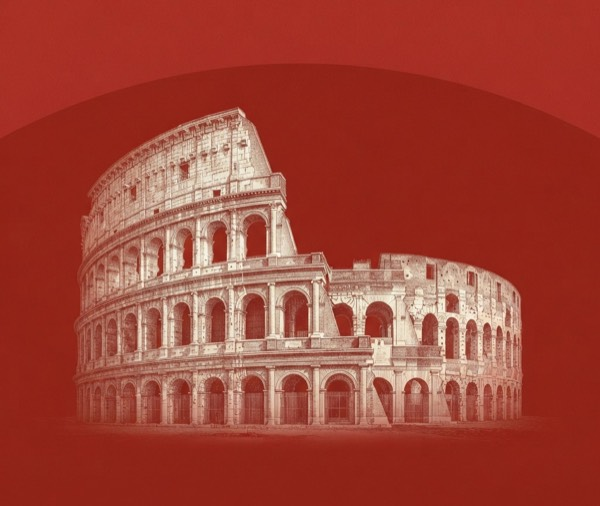
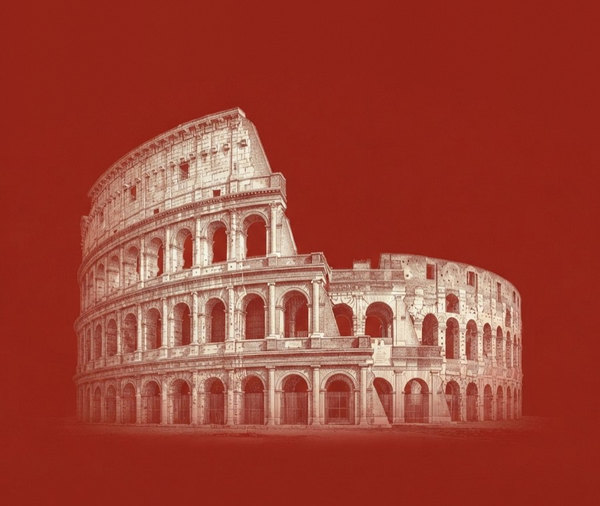
feat(finish): fixed frame, arcade footer, clean cover arch, no repeated badges
The bottom bar was a floating capsule sitting on each page's frame edge and
cutting rows mid-line; the cover image carried a second arch under the CSS arch.

- One fixed gold frame per screen (.pager__frame); pages scroll inside it, top
  edge fades rows out, hidden while the cover portal runs.
- Footer rebuilt: full-width parchment fade, an arcade of arch pips on a
  baseline (red = here, tinted = seen), page name and count. Footer ignores
  pointer events except the pips; scroll-padding keeps focused rows clear.
- Cover arch image repainted so the baked-in arch is gone.
- Rows leave off a badge that only repeats the section title (Unli Rice page).
- Reduced motion reaches the pips; docs and learnings synced.

diff --git a/src/styles/app.css b/src/styles/app.css
@@ -105,7 +105,7 @@ button {
 /* ---------- shell: phone column, centred; the printed frame continues around it on desktop ---------- */
 .shell {
   --col-w: min(var(--column-max), 100vw);
-  --indicator-space: 118px;
+  --indicator-space: 118px; /* the footer is 38 + 34 + 2 + 14.4 + 30 = 118.4px tall: the page ends above its fade */
   position: relative;
   display: flex;
   justify-content: center;
@@ -152,6 +152,7 @@ button {
   overflow-x: hidden;
   overflow-y: auto;
   overscroll-behavior-y: contain;
+  scroll-padding-block: 30px 118px;
   scroll-snap-align: start;
   scroll-snap-stop: always;
   scrollbar-width: none;
@@ -170,20 +171,37 @@ button {
   pointer-events: none;
 }
 
-/* ---------- indicator ---------- */
+/* ---------- the printed frame: fixed, the pages slide inside it ---------- */
+.pager .pager__frame {
+  position: absolute;
+  inset: 0;
+  z-index: var(--z-frame);
+  pointer-events: none;
+  /* rows that scroll up dissolve under the frame's top edge instead of running into its hairlines */
+  background: linear-gradient(to bottom, var(--lr-parchment) 0, var(--lr-parchment) 20px, rgb(250 245 237 / 0) 30px);
+  transition: opacity var(--dur-base) linear;
+}
+/* the cover portal (track locked): the red arch floods the whole screen, frame included, as it did when each page had its own frame */
+.pager__track[data-locked] ~ .pager__frame {
+  opacity: 0;
+  transition-duration: var(--dur-quick);
+}
+
+/* ---------- indicator: a footer the page runs out into. An arcade (one arch per page) on a baseline, then name and count ---------- */
 .indicator {
+  --pip-w: 14px;
+  --pip-h: 19px;
   position: absolute;
   z-index: var(--z-indicator);
-  left: 10px;
-  right: 10px;
-  bottom: max(10px, env(safe-area-inset-bottom));
-  padding: 2px 10px 11px;
-  border: 1px solid rgb(146 117 79 / 0.38);
-  border-radius: 22px;
-  background: rgb(250 245 237 / 0.94);
-  -webkit-backdrop-filter: blur(10px) saturate(130%);
-  backdrop-filter: blur(10px) saturate(130%);
-  box-shadow: 0 16px 30px -18px rgb(60 30 10 / 0.55), inset 0 1px 0 rgb(255 255 255 / 0.7);
+  left: 0;
+  right: 0;
+  bottom: 0;
+  /* the footer is a full-width strip: it must not swallow taps, wheel or swipes meant for the page under its fade. Only the pips take input. */
+  pointer-events: none;
+  /* the top 38px are the fade: rows dissolve into the parchment before they reach the arcade.
+     The label row gets extra inline room (34px in) so it clears the frame's cut corners. */
+  padding: 38px 24px calc(30px + env(safe-area-inset-bottom));
+  background: linear-gradient(to bottom, rgb(250 245 237 / 0) 0, var(--lr-parchment) 34px);
   transition:
     opacity var(--dur-quick) linear,
     transform var(--dur-base) var(--ease-roman),
@@ -201,15 +219,27 @@ button {
 }
 
 .indicator__pips {
+  position: relative;
   display: flex;
   justify-content: center;
   margin: 0;
   padding: 0;
   list-style: none;
 }
+/* the baseline the arches stand on */
+.indicator__pips::after {
+  content: '';
+  position: absolute;
+  left: 0;
+  right: 0;
+  bottom: 7px;
+  height: 1px;
+  background: rgb(146 117 79 / 0.75);
+  pointer-events: none;
+}
 .indicator__pips li {
   /* 24px hit area per pip (WCAG 2.2 target size). Only when 14 x 24 cannot fit does a slot get narrower, and then
-     the slots touch: no gap is ever left between two taps. The drawn pip stays 8 x 12 (22 wide when active). */
+     the slots touch: no gap is ever left between two taps. */
   flex: 1 1 24px;
   min-width: 0;
   max-width: 24px;
@@ -219,20 +249,37 @@ button {
   align-items: flex-end;
   justify-content: center;
   width: 100%;
-  height: 30px;
-  padding: 0 0 7px;
+  height: 34px;
+  padding: 0 0 8px;
   border: 0;
   border-radius: 8px;
   background: none;
+  pointer-events: auto;
 }
 .indicator__pip:focus-visible {
   box-shadow: var(--sh-focus);
 }
-.lr-pip.is-active {
-  width: 22px;
+/* an arch standing on the baseline: open at the bottom, the baseline closes it */
+.indicator .lr-pip {
+  box-sizing: border-box;
+  width: var(--pip-w);
+  height: var(--pip-h);
+  border-width: 1.25px 1.25px 0;
+  border-radius: calc(var(--pip-w) / 2) calc(var(--pip-w) / 2) 0 0 / 7px 7px 0 0;
+  transition:
+    height var(--dur-base) var(--ease-roman),
+    background-color var(--dur-quick) linear,
+    border-color var(--dur-quick) linear;
+}
+.indicator .lr-pip.is-seen {
+  background: rgb(146 117 79 / 0.24);
+}
+.indicator .lr-pip.is-active {
+  width: var(--pip-w);
+  height: calc(var(--pip-h) + 4px);
   border-color: var(--lr-red);
   background: var(--lr-red);
-  border-radius: 50% 50% 1px 1px / 7px 7px 1px 1px;
+  border-radius: calc(var(--pip-w) / 2) calc(var(--pip-w) / 2) 0 0 / 7px 7px 0 0;
 }
 
 .indicator__meta {
@@ -240,16 +287,18 @@ button {
   align-items: baseline;
   justify-content: space-between;
   gap: var(--sp-3);
-  padding: 0 4px;
+  margin-top: 2px;
+  padding: 0 10px;
 }
 .indicator__label {
   min-width: 0;
   overflow: hidden;
   font: 600 var(--fs-meta) / 1.2 var(--font-display);
-  letter-spacing: 0.14em;
+  letter-spacing: 0.16em;
   text-transform: uppercase;
   white-space: nowrap;
   text-overflow: ellipsis;
+  color: var(--lr-ink);
   animation: label-in var(--dur-instant) linear;
 }
 .indicator__count {
@@ -269,12 +318,15 @@ button {
   }
 }
 
-/* 14 x 24px needs 336px between the bar's padding: below 390px tighten the bar so it still fits down to 359px */
+/* 14 x 24px needs 336px between the footer's padding, and the arcade has to stay inside the frame's inner hairline (16.5px from the edge):
+   that holds from 376px up. Below 390px the footer's side padding drops to 20px; the slots then shrink (22.9px wide at 360px, still 34px tall,
+   touching, so no dead gap between two taps) rather than run over the frame. */
 @media (max-width: 389px) {
   .indicator {
-    left: 6px;
-    right: 6px;
-    padding-inline: 4px;
+    padding-inline: 20px;
+  }
+  .indicator__meta {
+    padding-inline: 14px;
   }
 }
 
@@ -351,6 +403,7 @@ button {
 /* ---------- a page ---------- */
 .page__inner {
   --indent: 34px;
+  position: relative;
   min-height: 100%;
   padding: calc(env(safe-area-inset-top) + 30px) 24px calc(var(--indicator-space) + env(safe-area-inset-bottom));
 }
@@ -779,8 +832,8 @@ button {
 }
 .closing__sprig {
   position: absolute;
-  top: calc(env(safe-area-inset-top) + 26px);
-  left: 28px;
+  top: calc(env(safe-area-inset-top) + 36px);
+  left: 30px;
   width: 70px;
   height: 35px;
   color: var(--lr-gold);
@@ -901,6 +954,9 @@ button {
   }
   .indicator__label {
     animation: none;
+  }
+  .indicator .lr-pip {
+    transition-duration: 1ms;
   }
   .row__btn:active,
   .note--jump:active,

diff --git a/src/components/list/ItemRow.tsx b/src/components/list/ItemRow.tsx
@@ -8,6 +8,8 @@ interface ItemRowProps {
   item: Item;
   selected: boolean;
   onSelect(id: string): void;
+  /** Badge text to leave off (compared ignoring case): it only repeats the section title. */
+  hideBadge?: string;
 }
 
 /**
@@ -16,11 +18,12 @@ interface ItemRowProps {
  * The whole row is one <button aria-pressed>: tap selects the dish on the stage.
  * A null price (the two Crispy Pata rows) renders no leader and no price element at all.
  */
-export const ItemRow = memo(function ItemRow({ item, selected, onSelect }: ItemRowProps) {
+export const ItemRow = memo(function ItemRow({ item, selected, onSelect, hideBadge }: ItemRowProps) {
   const reduced = useReducedMotion();
   const { ref, inView, order } = useInView<HTMLLIElement>();
   const variants = item.variants ?? [];
   const priced = item.price !== null || variants.length > 0;
+  const badges = hideBadge === undefined ? item.badges : item.badges.filter((b) => b.toLowerCase() !== hideBadge.toLowerCase());
 
   return (
     <li
@@ -44,9 +47,9 @@ export const ItemRow = memo(function ItemRow({ item, selected, onSelect }: ItemR
             <PricePill value={item.price} />
           ) : null}
         </span>
-        {item.badges.length > 0 || item.description ? (
+        {badges.length > 0 || item.description ? (
           <span className="row__desc">
-            {item.badges.map((badge) => (
+            {badges.map((badge) => (
               <span key={badge} className="badge">
                 {badge}
               </span>

diff --git a/src/components/list/ItemList.tsx b/src/components/list/ItemList.tsx
@@ -6,6 +6,8 @@ interface ItemListProps {
   items: readonly Item[];
   selectedId: string;
   onSelect(id: string): void;
+  /** A badge that only repeats the section's own title (17 "Unli rice" pills under "Unli Rice") is left off the rows. */
+  hideBadge?: string;
 }
 
 interface Group {
@@ -33,7 +35,7 @@ function group(items: readonly Item[]): Group[] {
   return groups;
 }
 
-export function ItemList({ items, selectedId, onSelect }: ItemListProps) {
+export function ItemList({ items, selectedId, onSelect, hideBadge }: ItemListProps) {
   const groups = useMemo(() => group(items), [items]);
 
   return (
@@ -55,7 +57,7 @@ export function ItemList({ items, selectedId, onSelect }: ItemListProps) {
           ) : null}
           <ul className="rows">
             {g.items.map((item) => (
-              <ItemRow key={item.id} item={item} selected={item.id === selectedId} onSelect={onSelect} />
+              <ItemRow key={item.id} item={item} selected={item.id === selectedId} onSelect={onSelect} hideBadge={hideBadge} />
             ))}
           </ul>
         </div>

diff --git a/src/components/pager/Indicator.tsx b/src/components/pager/Indicator.tsx
@@ -10,7 +10,7 @@ interface IndicatorProps {
 
 const two = (n: number) => String(n).padStart(2, '0');
 
-/** Fixed bottom bar: one arch pip per page, the page name, and "08 / 14". Hidden on the cover. */
+/** Fixed footer: an arcade with one arch per page (red = here, tinted = already seen), the page name, and "08 / 14". Hidden on the cover. */
 export function Indicator({ pages, activeIndex, onGo }: IndicatorProps) {
   const navRef = useRef<HTMLElement>(null);
   const hidden = activeIndex === 0;
@@ -37,7 +37,7 @@ export function Indicator({ pages, activeIndex, onGo }: IndicatorProps) {
                 aria-current={active ? 'page' : undefined}
                 onClick={() => onGo(i)}
               >
-                <span className={active ? 'lr-pip is-active' : 'lr-pip'} aria-hidden="true" />
+                <span className={active ? 'lr-pip is-active' : i < activeIndex ? 'lr-pip is-seen' : 'lr-pip'} aria-hidden="true" />
               </button>
             </li>
           );

diff --git a/src/components/pages/CategoryPage.tsx b/src/components/pages/CategoryPage.tsx
@@ -40,7 +40,7 @@ export const CategoryPage = memo(function CategoryPage({ page, active, near }: C
   );
 
   return (
-    <div className="page__inner lr-frame">
+    <div className="page__inner">
       <h2 className="sr-only" tabIndex={-1} data-page-heading>
         {page.label}
       </h2>
@@ -55,7 +55,7 @@ export const CategoryPage = memo(function CategoryPage({ page, active, near }: C
             {category.notes.map((note) => (
               <NoteLine key={note.text} note={note} />
             ))}
-            <ItemList items={category.items} selectedId={selectedId} onSelect={onSelect} />
+            <ItemList items={category.items} selectedId={selectedId} onSelect={onSelect} hideBadge={category.title} />
           </section>
         );
       })}

diff --git a/src/components/pager/Pager.tsx b/src/components/pager/Pager.tsx
@@ -70,6 +70,8 @@ export function Pager({ pages, renderPage }: PagerProps) {
               </PageSlot>
             ))}
           </main>
+          {/* The printed frame stays put and the pages slide inside it (it also fades rows out under its top edge). */}
+          <div className="pager__frame lr-frame" aria-hidden="true" />
           <div ref={veilRef} className="pager__veil" aria-hidden="true" />
           <Indicator pages={pages} activeIndex={liveIndex} onGo={(i) => goTo(i, { focus: true })} />
         </div>

diff --git a/src/components/pages/ClosingPage.tsx b/src/components/pages/ClosingPage.tsx
@@ -43,7 +43,7 @@ export const ClosingPage = memo(function ClosingPage() {
   );
 
   return (
-    <div ref={rootRef} className="page__inner lr-frame closing">
+    <div ref={rootRef} className="page__inner closing">
       <Sprig className="sprig closing__sprig" />
       <div className="closing__body">
         <div ref={emblemRef} className="closing__emblem-wrap">

diff --git a/design-system/stage.css b/design-system/stage.css
@@ -344,7 +344,7 @@
   clip-path: inset(0 0 0 0);
 }
 
-/* indicator pips: round arch idle, flattened Roman arch when active */
+/* indicator pips (generic recipe; the app's footer overrides it as an arcade, see .indicator .lr-pip in src/styles/app.css): round arch idle, flattened Roman arch when active */
 .lr-pip {
   display: block;
   width: 8px;

diff --git a/src/components/pages/CoverPage.tsx b/src/components/pages/CoverPage.tsx
@@ -114,7 +114,7 @@ export const CoverPage = memo(function CoverPage({ active }: CoverPageProps) {
   });
 
   return (
-    <div ref={rootRef} className="page__inner lr-frame cover">
+    <div ref={rootRef} className="page__inner cover">
       <div className="cover__emblem-wrap" data-rise>
         <Emblem className="cover__emblem" />
       </div>

diff --git a/design-system/tokens.css b/design-system/tokens.css
@@ -137,6 +137,7 @@
   --z-label: 30;
   --z-pager: 40;
   --z-indicator: 50;
+  --z-frame: 55;                     /* the printed frame: over the page and the dock, under Anatomia */
   --z-anatomia: 60;
   --z-portal: 90;
   --z-toast: 100;

diff --git a/CLAUDE.md b/CLAUDE.md
@@ -19,7 +19,7 @@ Commands: `npm run dev` (port 5173, or see `.claude/launch.json`), `npm test`, `
 **Adding or replacing a dish photo:** the master is `public/dishes/<slug>.jpg` (900 px, named in `src/data/photos.json` and `photoSizes.ts`). The app never loads the master: it loads two WebP variants, `public/dishes/<slug>.webp` (plate) and `public/dishes/t/<slug>.webp` (320 px, option tiles). After adding or changing a master run `scripts/photo-variants.sh` (needs `brew install webp`) and commit the variants too. `npm test` fails (and so does the deploy) if a variant is missing, the wrong size, or over its byte budget.
 
 ## Status
-Typography reset 2026-11-19 (Bodoni Moda + EB Garamond Italic, stage name fitted to one line, row leaders aligned to the last line). Built: 14 pages (cover, 12 category pages, Grazie), hero stage with option tiles, Anatomia exploded view, 80 dish photos (49 Gemini ones added 2026-11-19, plus Pale Pilsen and Red Horse as cut-outs of CC-licensed Commons photos on a synthetic maple background, credits in `docs/photo-credits.md`; drinks are framed with a larger circle that holds glass, garnish and saucer; not run locally after adding them, CI runs the tests on push), 343 tests. First review round (2026-11-18) rejected on error boundary, a swap race, and image loading; all fixed and the second review round approved. Hosting works from any static folder (relative base), not from file://.
+Finish pass 2026-11-19 (second round): one fixed gold frame per screen with the pages scrolling inside it, the bottom bar rebuilt as an arcade footer (not a capsule), the cover image repainted so it no longer carries a second arch, no repeated section-title badges in rows. Typography reset 2026-11-19 (Bodoni Moda + EB Garamond Italic, stage name fitted to one line, row leaders aligned to the last line). Built: 14 pages (cover, 12 category pages, Grazie), hero stage with option tiles, Anatomia exploded view, 80 dish photos (49 Gemini ones added 2026-11-19, plus Pale Pilsen and Red Horse as cut-outs of CC-licensed Commons photos on a synthetic maple background, credits in `docs/photo-credits.md`; drinks are framed with a larger circle that holds glass, garnish and saucer; not run locally after adding them, CI runs the tests on push), 343 tests. First review round (2026-11-18) rejected on error boundary, a swap race, and image loading; all fixed and the second review round approved. Hosting works from any static folder (relative base), not from file://.
 Live: https://bored-six.github.io/la-roma-digital-menu/ (public repo bored-six/la-roma-digital-menu). `.github/workflows/deploy.yml` runs tests, builds and publishes to GitHub Pages on every push to main. `reference/` is gitignored (kept local only, not in the public repo). Commits use the GitHub noreply email (repo-local git config).
 Photo prompts (one paste-ready prompt per dish, style lock inside) for the 2 dishes still missing a photo (beef steak, plain platter rice): `docs/gemini-photo-prompts.md`.
 Open: real Facebook URL (`src/data/site.ts` placeholder); photos for those 2 dishes and 6 branded drinks (San Mig Light and Apple, Cali, Coke/Sprite/Royal/Dew, Coke 1.5 L, bottled water; on the placeholder for now); Safari/iOS untested; Unli Rice page keeps only the first PDF tagline.

diff --git a/.claude/learnings.md b/.claude/learnings.md
@@ -87,3 +87,11 @@ What works: `osascript -l JavaScript script.js <pdf> <outdir>` using PDFKit thro
 - Masters are still in `public/` so they still ship in the Pages artifact (about 10 MB), but nothing requests them. Moving them out of `public/` would trim the deploy; it needs `photoSizes.test.ts` pointed at the new folder. Not done: no user-visible gain.
 - Vite dev trap: files added to `public/` while `npm run dev` is running are not picked up: the dev server answered the new `.webp` heroes with the SPA fallback (a 2 KB `index.html`, `naturalWidth` 0, blank plate). Restart the dev server. The production build was unaffected. Also a hash-only navigation (`#breakfast`) in the browser pane keeps the old page and old JS: navigate with a changed query string (`?fresh=1#...`) for a real reload.
 - No `avifenc` here, and WebP is already ~60-80% smaller than the JPEGs; AVIF would save a little more at the cost of a fallback chain. Not worth it for this site.
+
+## 2026-11-19 - "Looks unfinished": the dock, the frame and the cover seam
+- User feedback after the type swap: the bottom bar looked unfinished and so did the whole UI. The cause was collisions, not type: the dock was a floating blurred capsule that sat on the per-page frame's bottom edge and corner diamonds, and rows were cut mid-line at the capsule's rounded top.
+- Fix: one fixed frame (`.pager__frame`) instead of a frame per page; a full-width footer with a gradient fade instead of a capsule; arches on a baseline (an arcade) with seen / here / ahead states. Frame lines sit at inset+1 and inset+6.5 px; the cut corners are quarter discs of radius 21 around the corner point, so anything in the bottom row must stay about 34px in from the edge.
+- `.lr-frame` also gave `.page__inner` `position: relative` (the closing page sprig is absolute): the page now sets that itself.
+- The cover arch image (`public/brand/cover-arch-*.jpg`) had an arch baked into it (a darker plate inside a lighter field, a circular arc of radius 975 px, top at y 95 of 759), and the CSS arch clipped it again: two arches fighting, seen as a light band with a notch at the top. Repainted with PIL/numpy: pixels above the arc replaced by the plate colour sampled just below the arc, smoothed along x, plus grain. The originals are not kept in the repo (git history has them). Do not regenerate the cover from the PDF crop without removing that arch.
+- Rows: a badge equal to the section title (17 "Unli rice" pills on the Unli Rice page) is left off the rows (`hideBadge`), the same rule the stage's glass card already used.
+- Vite dev serves `public/` images with browser caching: after replacing an image, `fetch(url, {cache: 'reload'})` then reload to see it.
